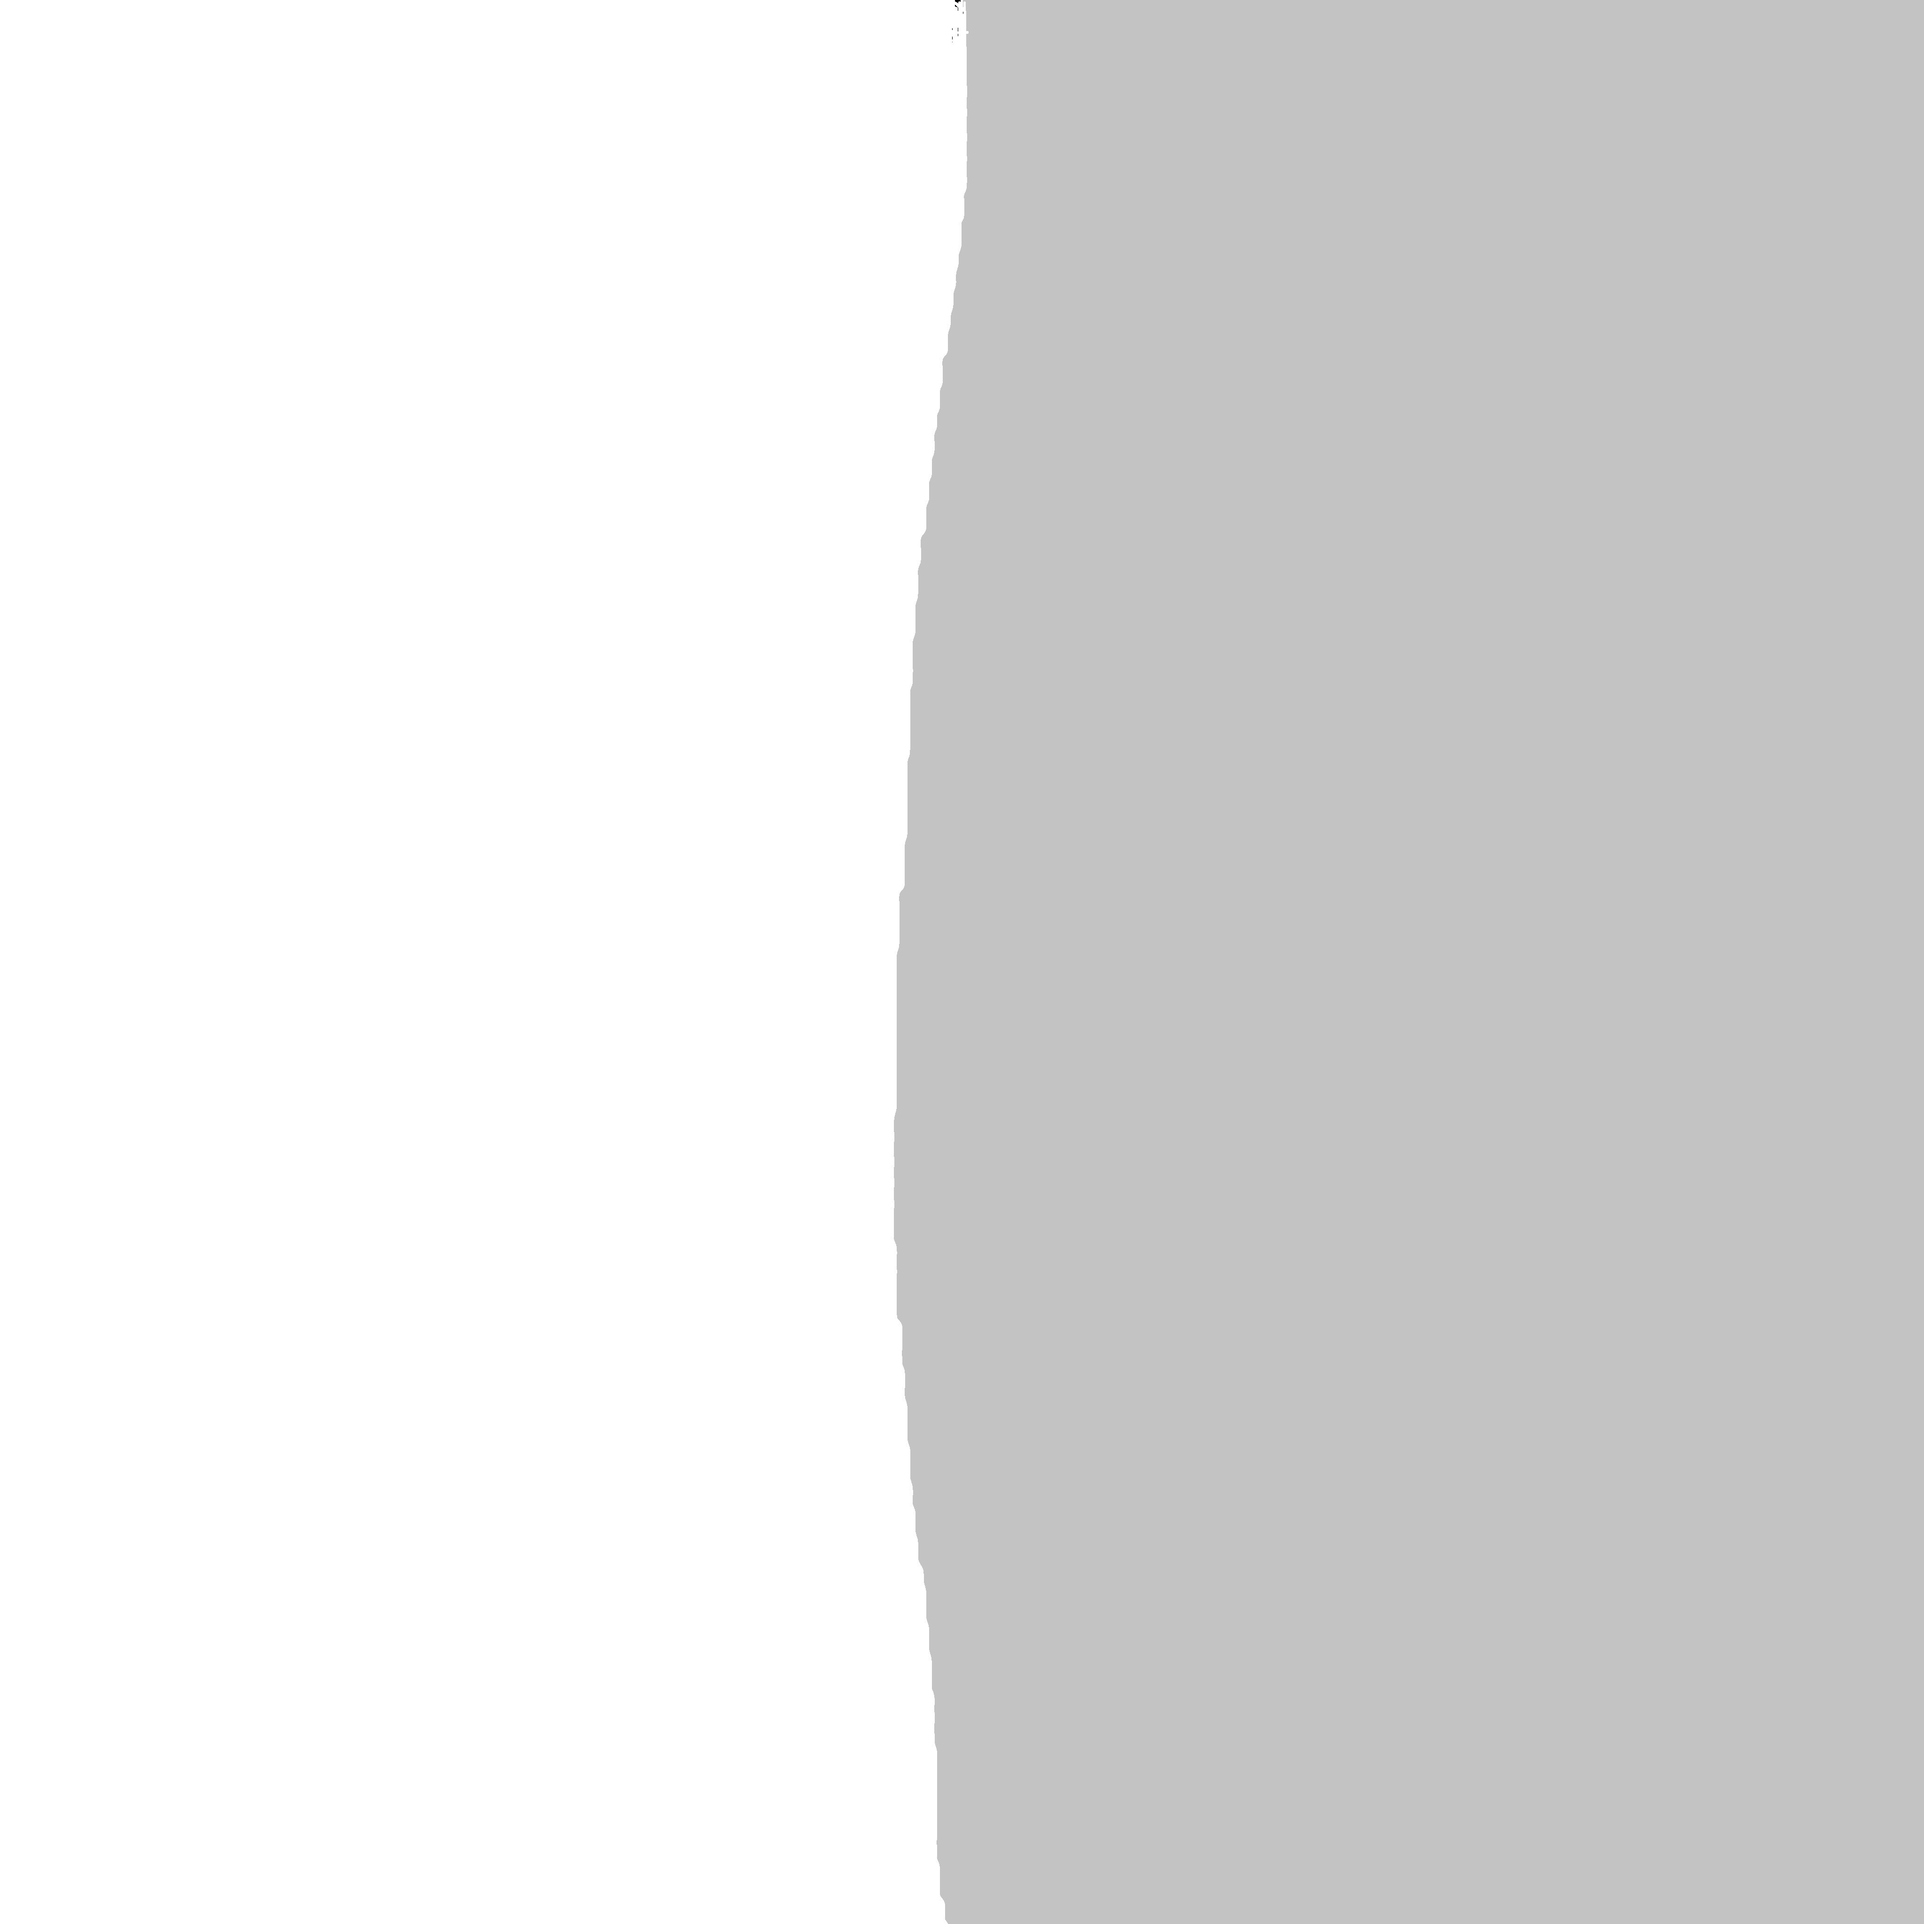
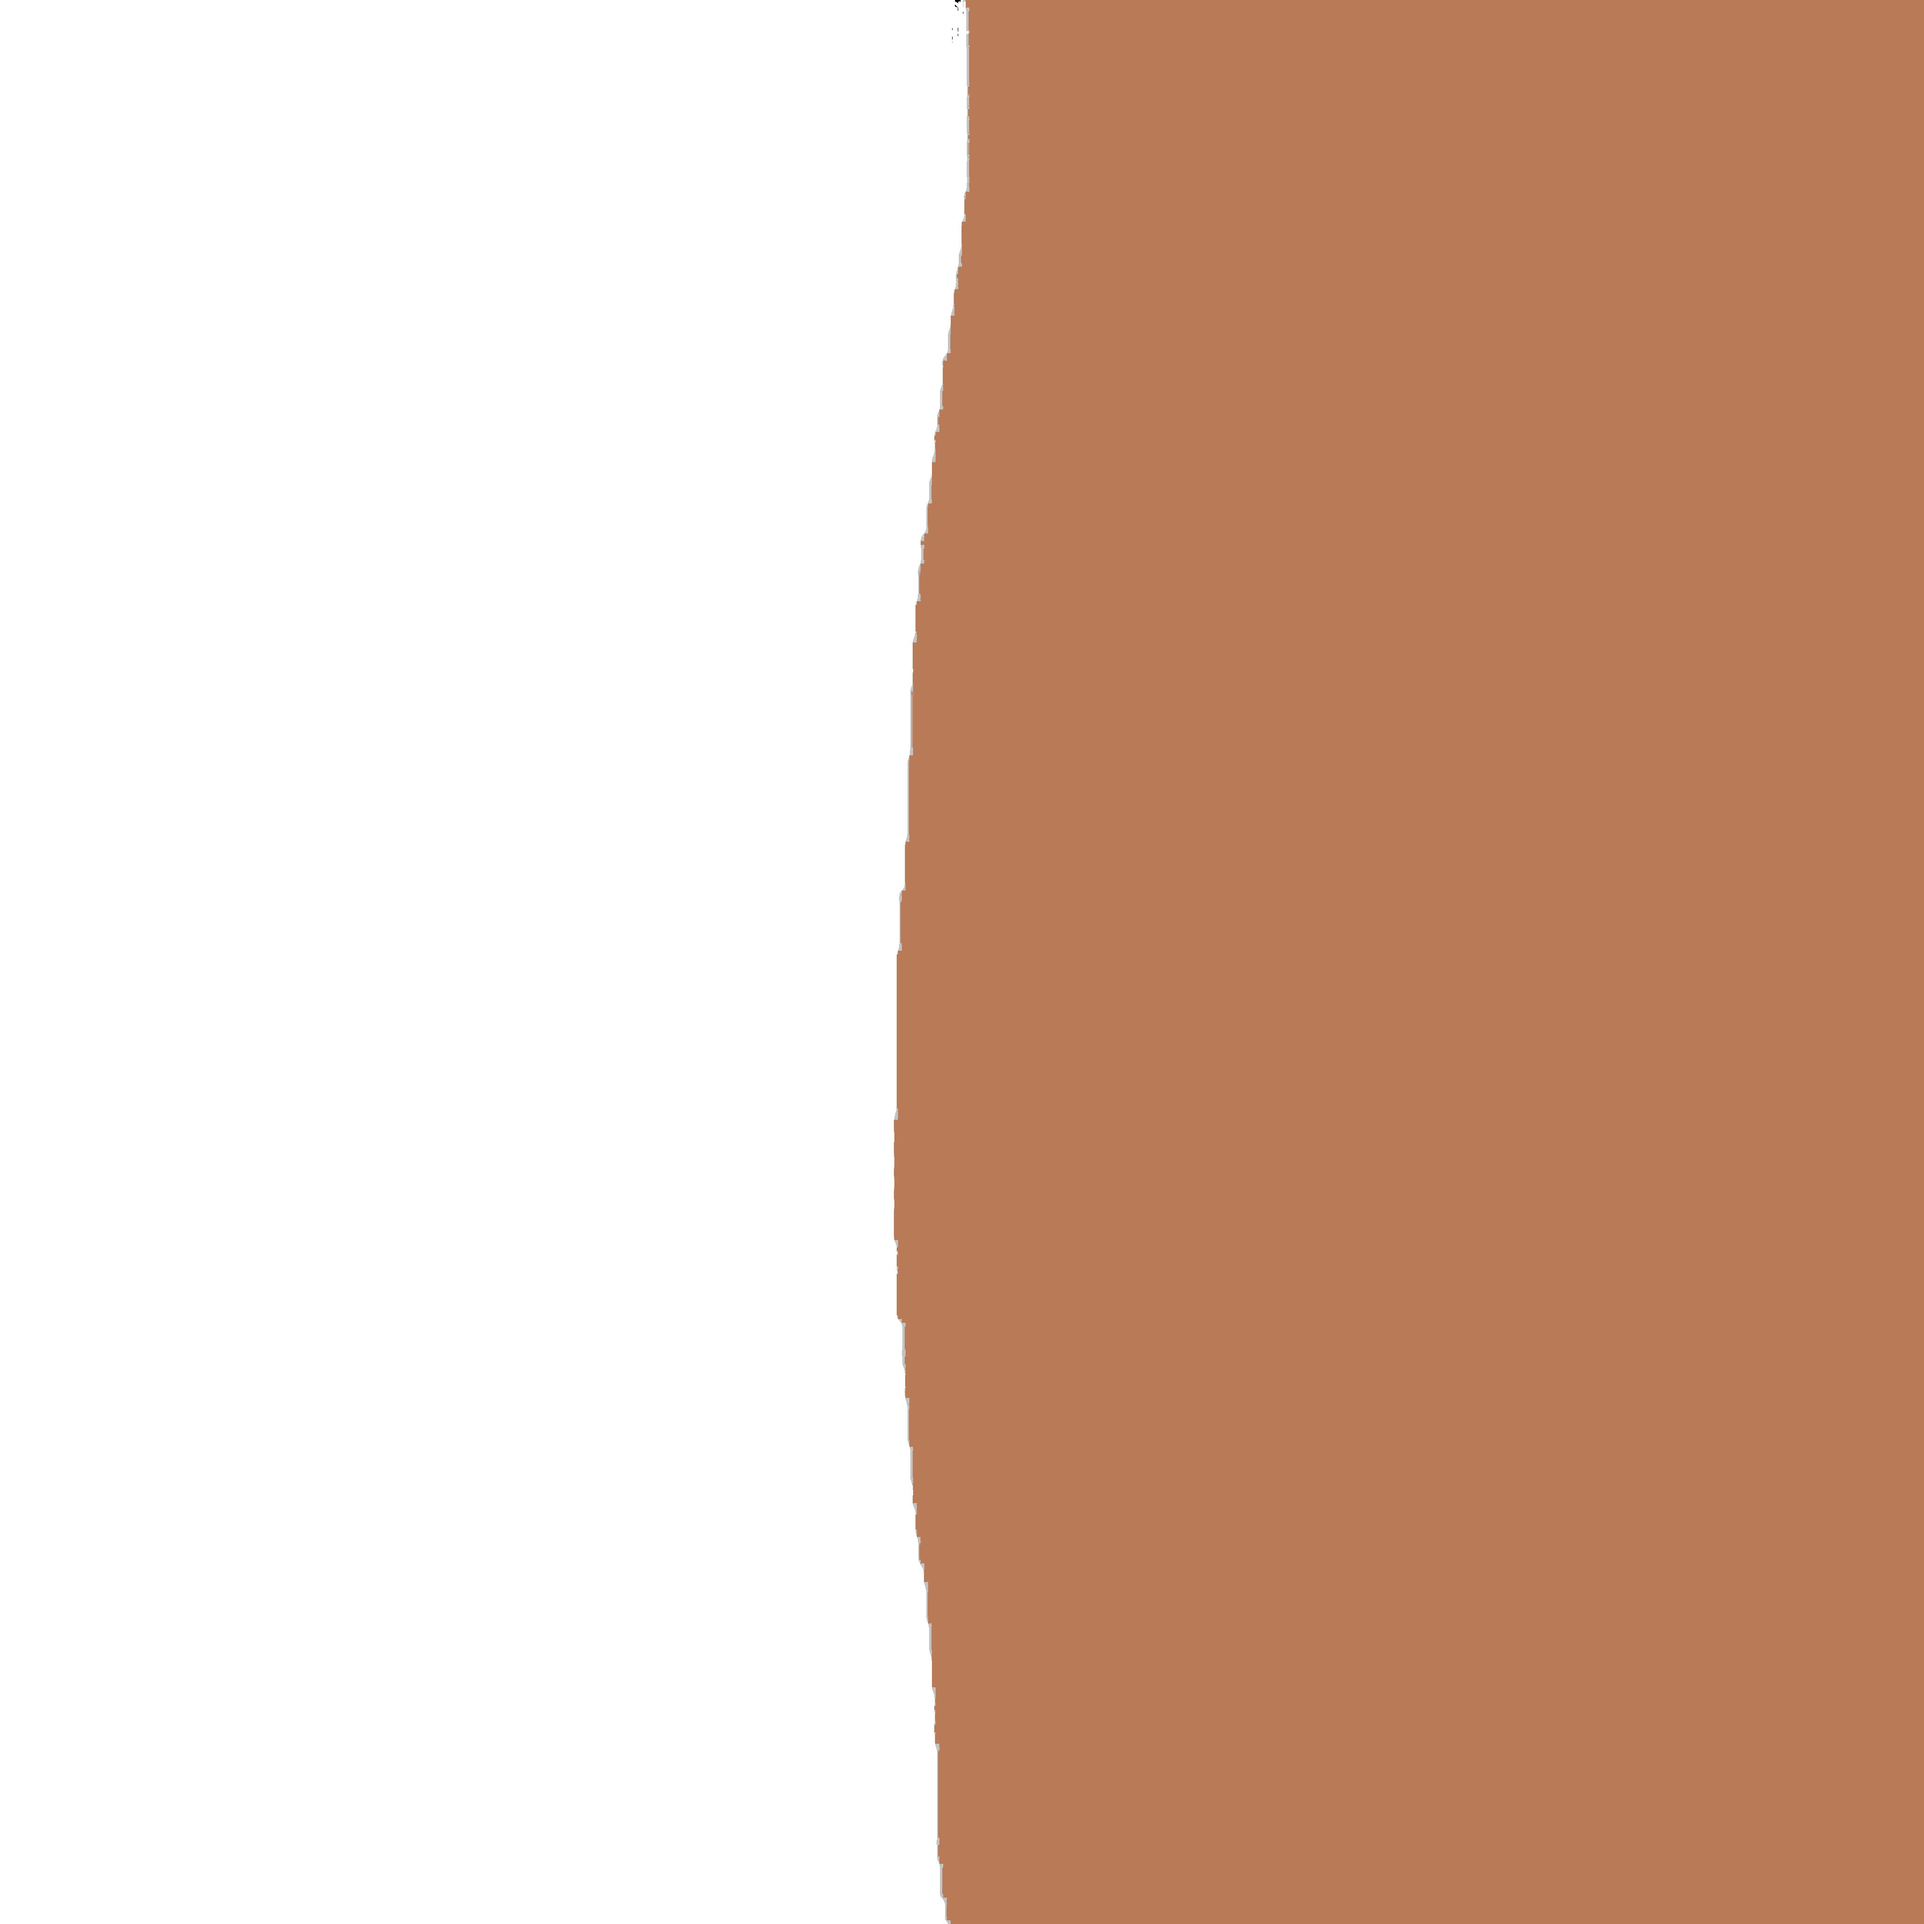
updateing to main pc

diff --git a/main.cpp b/main.cpp
@@ -535,9 +535,9 @@ int main()
 		}
 		if (run == true) {
 			glUniform1f(glGetUniformLocation(framebufferProgram.ID, "exposure"), exposure);
-			glUniform1f(glGetUniformLocation(framebufferProgram.ID, "gamma"), gamma);
-			exposure = realExposure;
-			gamma = realGamma;
+			glUniform1f(glGetUniformLocation(framebufferProgram.ID, "gamma"), gamma);;
+			exposure = realExposure; 
+			gamma = 0.5;
 			if (renSha == true)
 			{
 				renderShadows = 1;
@@ -595,7 +595,7 @@ int main()
 			// Creates new title
 			std::string FPS = std::to_string((1.0 / timeDiff) * counter);
 			std::string ms = std::to_string((timeDiff / counter) * 1000);
-			std::string newTitle = "Caliber window - " + FPS + "FPS / " + ms + "ms";
+			std::string newTitle = "Caliber renderer window - " + FPS + "FPS / " + ms + "ms";
 			glfwSetWindowTitle(window, newTitle.c_str());
 
 			
@@ -668,6 +668,7 @@ int main()
 		// Enable depth testing since it's disabled when drawing the framebuffer rectangle
 		glEnable(GL_DEPTH_TEST);
 
+		
 		// Updates and exports the camera matrix to the Vertex Shader
 		camera.updateMatrix(60.0f, 0.1f, farPlane);
 		
@@ -890,7 +891,7 @@ int main()
 	
 
 
-	std::ofstream file("settings.h");
+	std::ofstream file("src/settings.h");
 
 	file << "";
 

diff --git a/src/settings.h b/src/settings.h
@@ -3,7 +3,7 @@ int IwindowW = 1920;
 int IwindowH = 1080;
 int Isampels = 2;
 bool Ivsync = 1;
-float Igamma = 0.700000;
+float Igamma = 0.500000;
 int Iwire = 0;
 float Iexposure = 1.500000;
 int IrenderShadow = 1;
@@ -12,3 +12,4 @@ int IlightViewSetting = 0;
 int Ibloom = 1;
 int InormalSpeed = 1.000000;
 int Ictrlspeed = 1.000000;
+int IenSkybox = 0;

diff --git a/settings.h b/settings.h
@@ -3,7 +3,7 @@ int IwindowW = 1920;
 int IwindowH = 1080;
 int Isampels = 2;
 bool Ivsync = 1;
-float Igamma = 0.700000;
+float Igamma = 0.500000;
 int Iwire = 0;
 float Iexposure = 1.500000;
 int IrenderShadow = 1;
